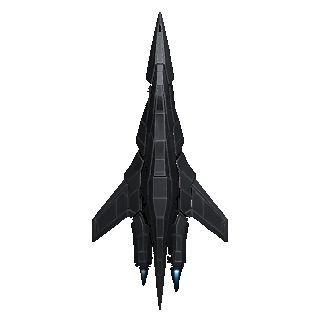
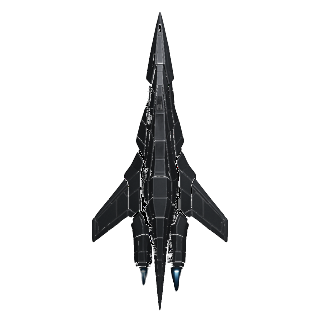
fix(art): MCC 함선 가장자리 부드럽게 — 이진 알파 → 게인 커브 (v7.409)
v7.408 이진화로 엣지가 거칠던 것 개선. 원본에서 배경제거 + 알파 게인(×2.3)으로 함체 불투명화하되
가장자리 안티에일리어싱 보존 + 내부 구멍 fill. mcc 8종 전부 Chrome 실렌더 검증.

Changed region(s): [[0.4062, 0.2188, 0.5938, 0.9062], [0.375, 0.5625, 0.4062, 0.625], [0.4688, 0.1562, 0.5, 0.1875]]

diff --git a/CHANGELOG.md b/CHANGELOG.md
@@ -1,3 +1,10 @@
+## 2026-06-05 v7.409 — MCC 함선 가장자리 부드럽게 (이진 알파 → 게인 커브)
+
+v7.408이 함체를 이진({0,255})으로 채워 가장자리가 거칠게 잘려(안티에일리어싱 X) "이상하게 딴" 느낌이
+남던 것 개선. 원본에서 다시: 테두리 연결 배경만 0 + 함체 알파 게인(×2.3, 본체는 불투명까지 끌어올리되
+가장자리 그라데이션 유지) + 내부 완전구멍 fill. mcc 8종(bs/crs/dst/ewar/frg/int/snp/titan) 전부
+Chrome 실렌더 검증 — 꽉 찬 함체 + 매끄러운 엣지.
+
 ## 2026-06-05 v7.408 — MCC 함선 반투명(내부 비침) 수정
 
 MCC 함선 8종 top 스프라이트가 배경제거(rembg/크로마키) 과정에서 함체 내부까지 갉혀 거의 전체가
